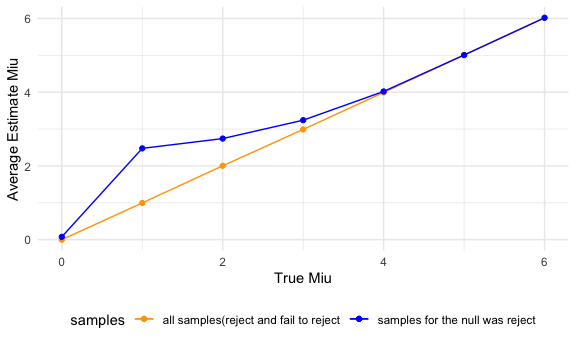
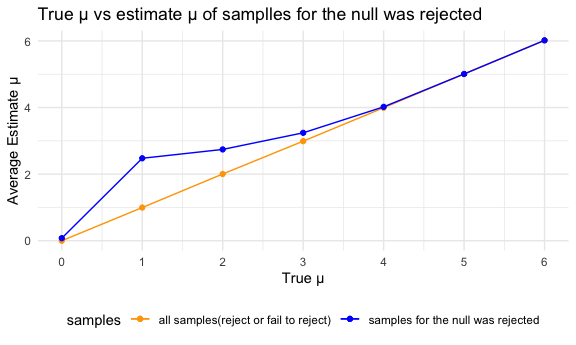
complete hw5

diff --git a/p8105_hw5_yz3955.md b/p8105_hw5_yz3955.md
@@ -110,7 +110,8 @@ longstudy_df %>%
   geom_line(aes(group = as.factor(id)),alpha = .5) +
   theme(
     axis.text.x = element_text(angle = 90, vjust = .5, hjust = 1)
-    )
+    ) +
+  ggtitle("Observations for control group and experiment group")
 ```
 
 <img src="p8105_hw5_yz3955_files/figure-gfm/unnamed-chunk-7-1.png" width="90%" />
@@ -252,14 +253,18 @@ prop_pl %>%
   geom_bar(stat="identity") +
   geom_errorbar(aes(ymin = conf.low, ymax = conf.high)) +
   ggtitle("The proportion of times the null was rejected") +
-  ylab("estimate proportion")
+  ylab("estimate proportion") +
+  xlab("True μ value") 
 ```
 
 <img src="p8105_hw5_yz3955_files/figure-gfm/unnamed-chunk-10-1.png" width="90%" />
 
 From this plot, we could see that as the effect size of the difference
 between sample mean and hypothesis population mean increases, the power
-of the test that rejects the null hypothesis is increasing
+of the test that rejects the null hypothesis is increasing. And when the
+true μ \>= 4, the proportion of times the null was rejected is
+approximately to 1.00, which means the power of rejecting H0 gets close
+to 1.
 
 Make a plot showing the average estimate of μ̂ on the y axis and the
 true value of μ on the x axis. Make a second plot (or overlay on the
@@ -291,11 +296,37 @@ clean_outp_test %>%
   geom_point(data = null_rej_pl, aes(color = 'b')) +
   scale_color_manual(name = 'samples', 
                      values =c('b'='blue','a'='orange'), 
-                     labels = c('all samples(reject and fail to reject','samples for the null was reject')) +
-  ylab("Average Estimate Miu") +
-  xlab("True Miu")
+                     labels = c('all samples(reject or fail to reject)','samples for the null was rejected')) +
+  scale_x_continuous(breaks=c(0, 1, 2, 3, 4, 5, 6)) +
+  ylab("Average Estimate μ") +
+  xlab("True μ") +
+  ggtitle("True μ vs estimate μ of samplles for the null was rejected")
 ```
 
     ## `summarise()` ungrouping output (override with `.groups` argument)
 
 <img src="p8105_hw5_yz3955_files/figure-gfm/unnamed-chunk-11-1.png" width="90%" />
+
+From above plot, we can easily know that the average estimate μ in
+samples for which the null was rejected or fail to be rejected is equal
+to the true μ since the sample size is 30 and we repeat t.test 5000
+times for each μ value.  
+The sample average of estimate μ across tests for which the null is
+rejected is approximately equal to the true value of μ when true value
+of μ is equal to 0, 4, 5, or 6.  
+Since we use μ = 0 for hypothesis test and normal distribution is
+symmetric at x = 0, the estimate μ for which the null is rejected should
+be symmetric distribution at x = 0. Therefore, the average of estimate μ
+for which the null is rejected is very close to zero(the true μ).  
+From the previous plot :The proportion of times the null was rejected,
+we know that the proportion of times the null was rejected is
+approximately to 1.00 when the true μ \>= 4. As the power of rejecting
+H0 gets very close to 1, the null was rejected for almost each sample of
+5000 total samples. That’s why, the sample average of estimate μ across
+tests for which the null is rejected is approximately equal to the true
+value of μ when true value of μ is equal to 4, 5, or 6.  
+For other true μ values(μ =1,2,or 3), the effect size is small and the
+power of rejecting H0 is far away from the 1. Since there are many
+sample estimate μ for which we fail to reject the null when μ = 1, 2 or
+3, the sample average of μ̂ across tests for which the null is rejected
+is not equal to the true value of μ.
